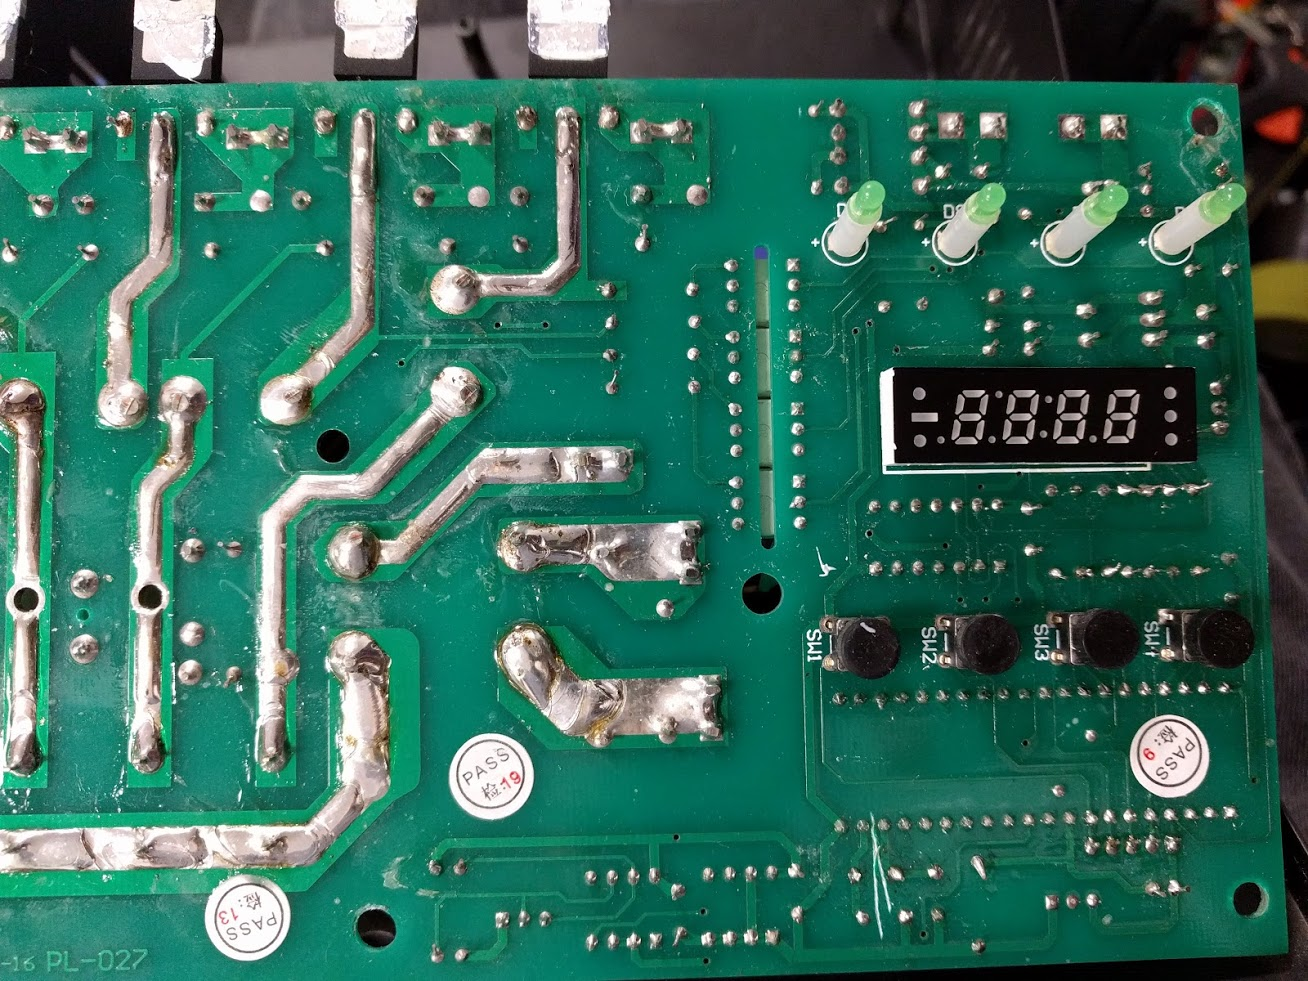
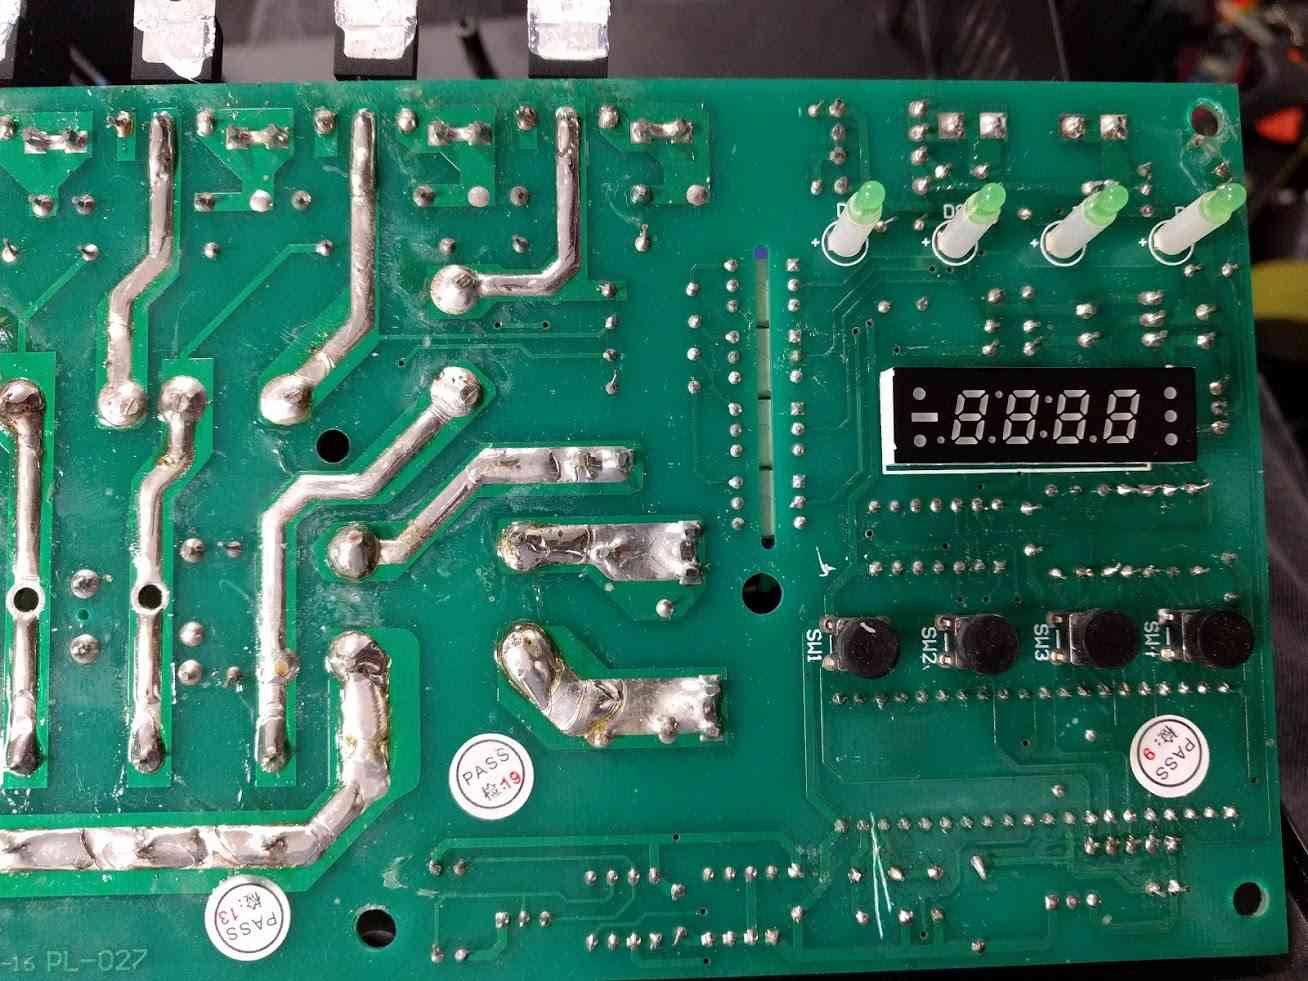
Compressed qtx images

diff --git a/qtx-dp4/index.html b/qtx-dp4/index.html
@@ -16,7 +16,7 @@
       <h2>Repair of QTX DP4 Dimmer Pack.</h2>
       <h3>£80 <s>Four</s> ...two channel leading edge dimmer pack with DMX input and internal chase presets.</h3>
 
-      <img src="images/case.png" align="right" style="width: 40%;">
+      <img src="images/case.jpg" align="right" style="width: 40%;">
 
       <p>
         <h4>Acquisition</h4>
@@ -85,7 +85,7 @@
         It was at this point that the sporadicness of the gate traces running under the inductors, power resistors (100 Ω) and safety caps became apparent.
         To confirm the triac drivers were in the same order as the triacs, continuity measurements were performed to help follow the gate traces.
         <br />
-        <img src="images/gate-traces.png">
+        <img src="images/gate-traces.jpg">
         <br />
         The good news is that the outer two channels (1 & 4 - green) are in the expected order.
         The better news is that the inner channels (2 & 3 - red) aren't connected!
